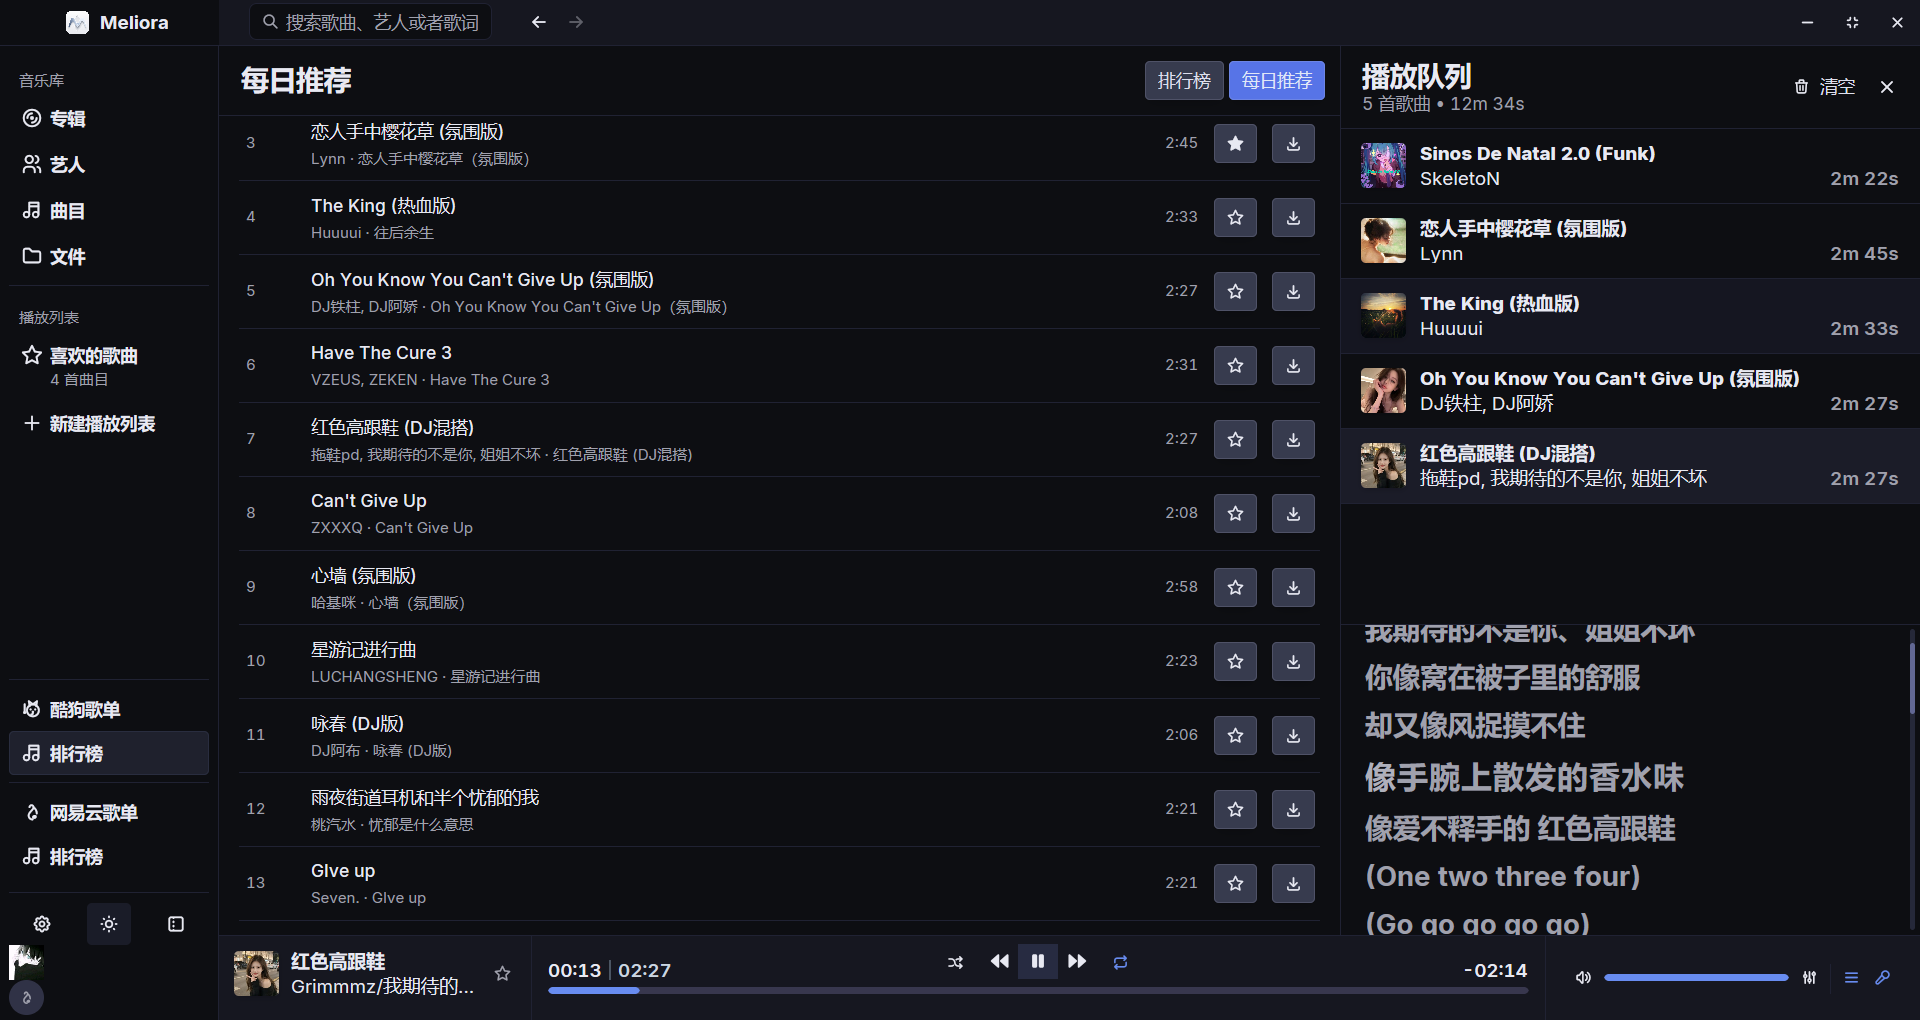
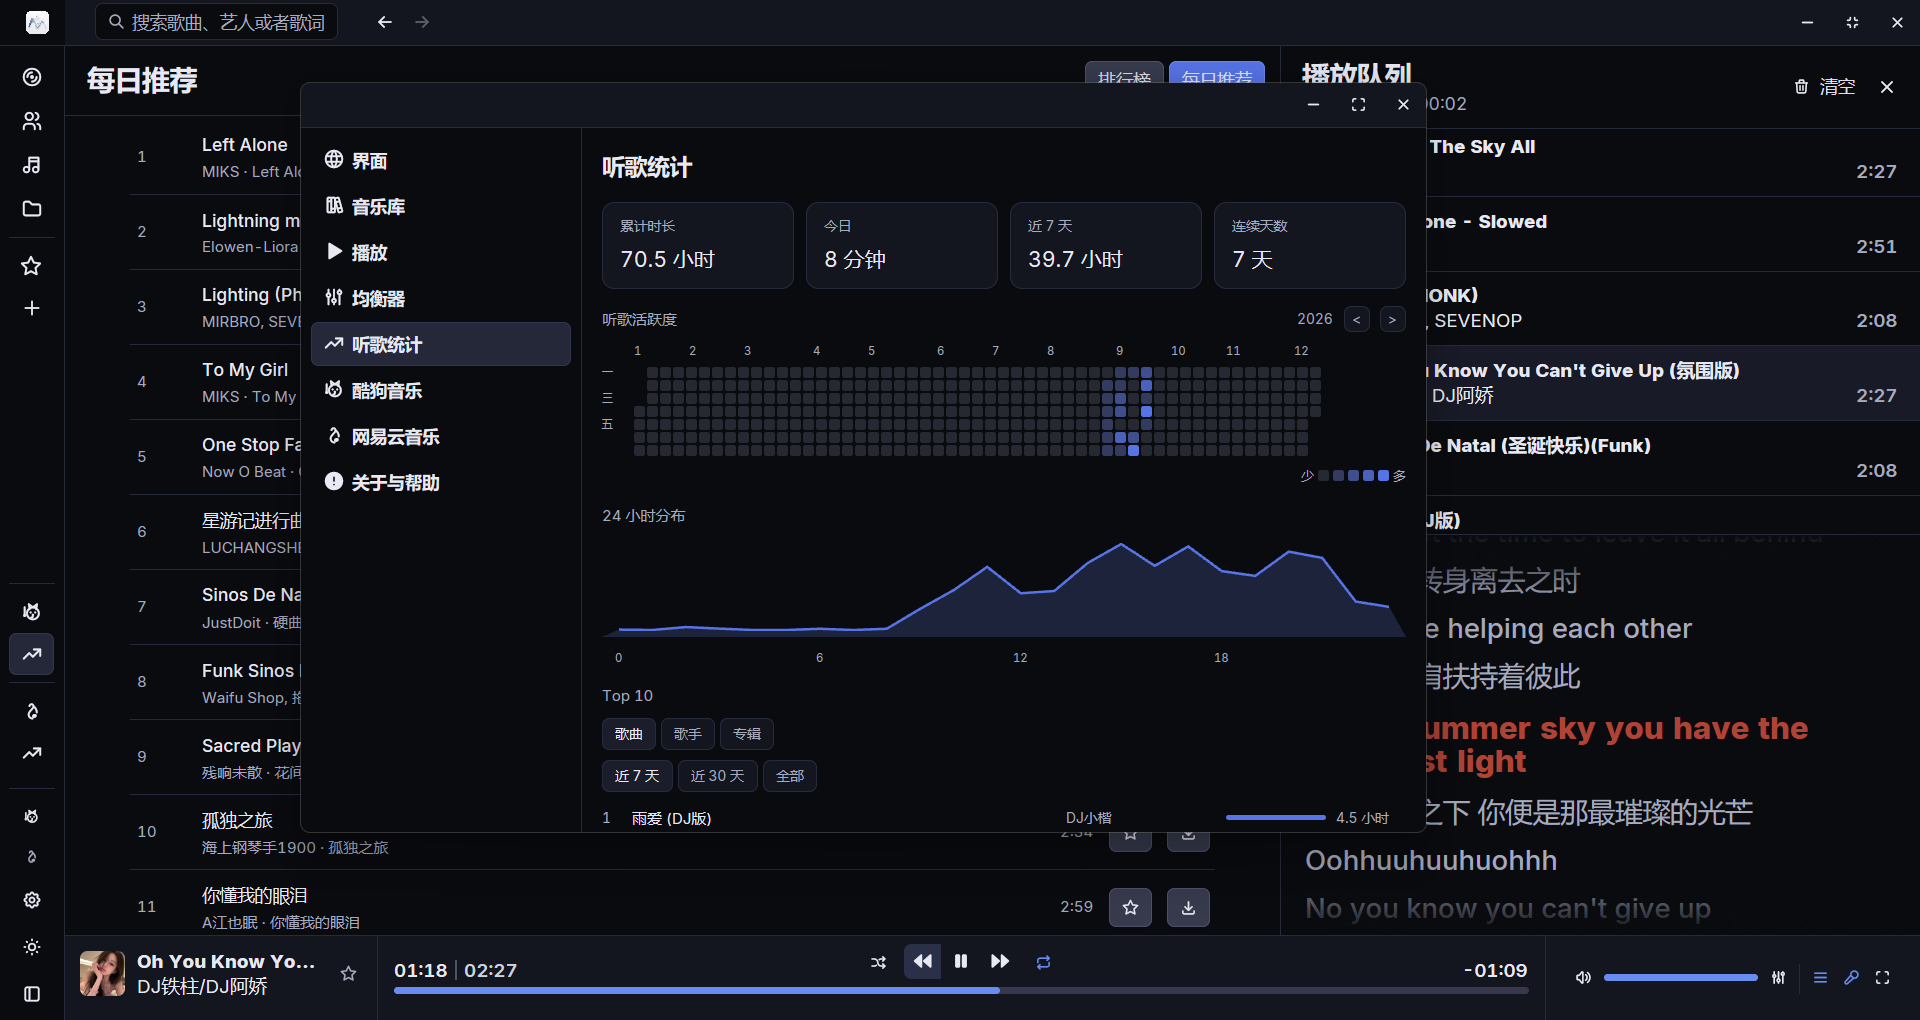
docs: 更新截图——浅色/深色重拍，设置页替换为沉浸模式

diff --git a/README.md b/README.md
@@ -78,7 +78,7 @@ Meliora 是 [hummingbird](https://github.com/hummingbird-player/hummingbird) 的
 
 ![深色主题](screenshots/dark.png)
 
-![设置界面](screenshots/settings.png)
+![沉浸模式](screenshots/immersive.png)
 
 ## 构建
 
